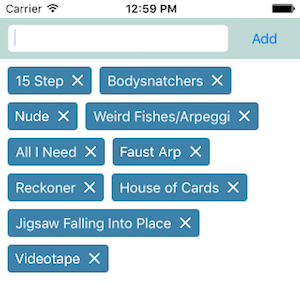
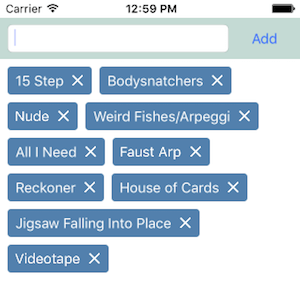
added screenshot for tag themes

diff --git a/README.md b/README.md
@@ -19,56 +19,53 @@ Setting up is incredibly easy. Simply drop a `UIScrollView` on your storyboard o
 There are a number of `IBInspectable` properties that you can use to do some quick customizations.
 
 ```objc
-@property (assign, nonatomic) IBInspectable TagColorTheme tagColorTheme;
 @property (nullable, strong, nonatomic) IBInspectable UIColor *tagColor;
 @property (nullable, strong, nonatomic) IBInspectable UIColor *tagTextColor;
 @property (nullable, strong, nonatomic) IBInspectable UIImage *crossImage;
 @property (assign, nonatomic) IBInspectable CGFloat cornerRadius;
 @property (assign, nonatomic) IBInspectable CGFloat tagSpacing;
+@property (assign, nonatomic) IBInspectable TagColorTheme tagColorTheme;
 ```
+
+The 'tagColorTheme' property lets you quickly skin your tags by choosing from a set of predefined themes. All colors except the default have been taken from [Ben Gordon's] (https://github.com/bennyguitar) [Colours](https://github.com/bennyguitar/Colours).
+
+![alt tag](Images/ColorThemes.png)
 
 To create one by code, you will need to import `ASJTagsView.h`. To work with the tags view, you have these options"
 
 ```objc
 - (void)addTag:(NSString *)tag;
 ```
-
 Adds a single tag to the tags view.
 
 ```objc
 - (void)appendTags:(NSArray<NSString *> *)tags;
 ```
-
 Append an array of `NSString`s to the tag view. They will be added **after** the tags already visible.
 
 ```objc
 - (void)replaceTags:(NSArray<NSString *> *)tags;
 ```
-
 Replace all visible tags with new ones.
 
 ```objc
 - (void)deleteTag:(NSString *)tag;
 ```
-
 Delete all similarly named tags according to the string provided.
 
 ```objc
 - (void)deleteTagAtIndex:(NSInteger)idx;
 ```
-
 Delete tag at the specified array index.
 
 ```objc
 - (void)deleteAllTags;
 ```
-
 Empty the tags view.
 
 ```objc
 - (void)reloadTagsView;
 ```
-
 Manual reload. Note that whenever you add or remove tags, the view will reload itself.
 
 There are two blocks that you can handle to get certain events:
@@ -76,13 +73,11 @@ There are two blocks that you can handle to get certain events:
 ```objc
 - (void)setTapBlock:(TagBlock _Nullable)tapBlock;
 ```
-
 Called when a tag is tapped. Inside the block, you will receive the tag string and the index at which it is present in the view.
 
 ```objc
 - (void)setDeleteBlock:(TagBlock _Nullable)deleteBlock;
 ```
-
 Called when a cross (delete button) is tapped. Inside the block, you will receive the tag string and the index at which it is present in the view.
 
 ![alt tag](Images/Screenshot.png)
@@ -90,7 +85,7 @@ Called when a cross (delete button) is tapped. Inside the block, you will receiv
 # Credits
 
 - Cross icon taken from Google [Material Icons](https://design.google.com/icons/#ic_clear).
-- Most tag color themes taken from [Benny Guitar's] (https://github.com/bennyguitar) [Colours](https://github.com/bennyguitar/Colours).
+- All tag color themes except the default taken from [Ben Gordon's] (https://github.com/bennyguitar) [Colours](https://github.com/bennyguitar/Colours).
 
 # To-do
 
@@ -99,6 +94,7 @@ Called when a cross (delete button) is tapped. Inside the block, you will receiv
 - Add support for adding custom view.
 - Add option to disable cross.
 - Add option to show tags of random colors.
+- User collection view instead of stock scroll view.
 
 # License
 
